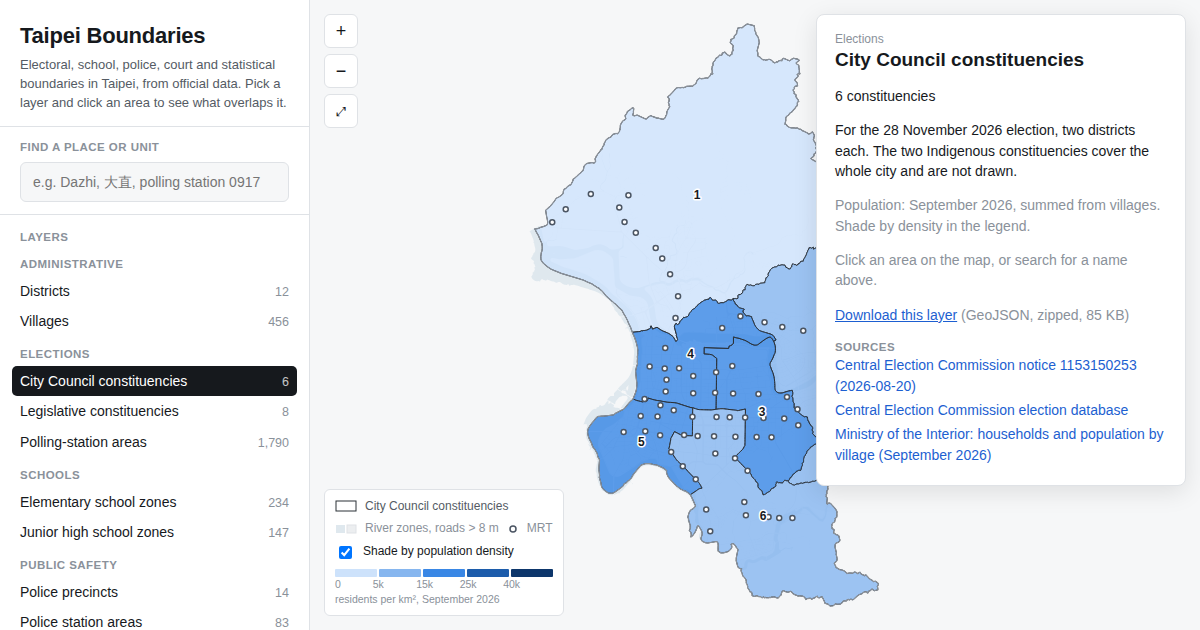
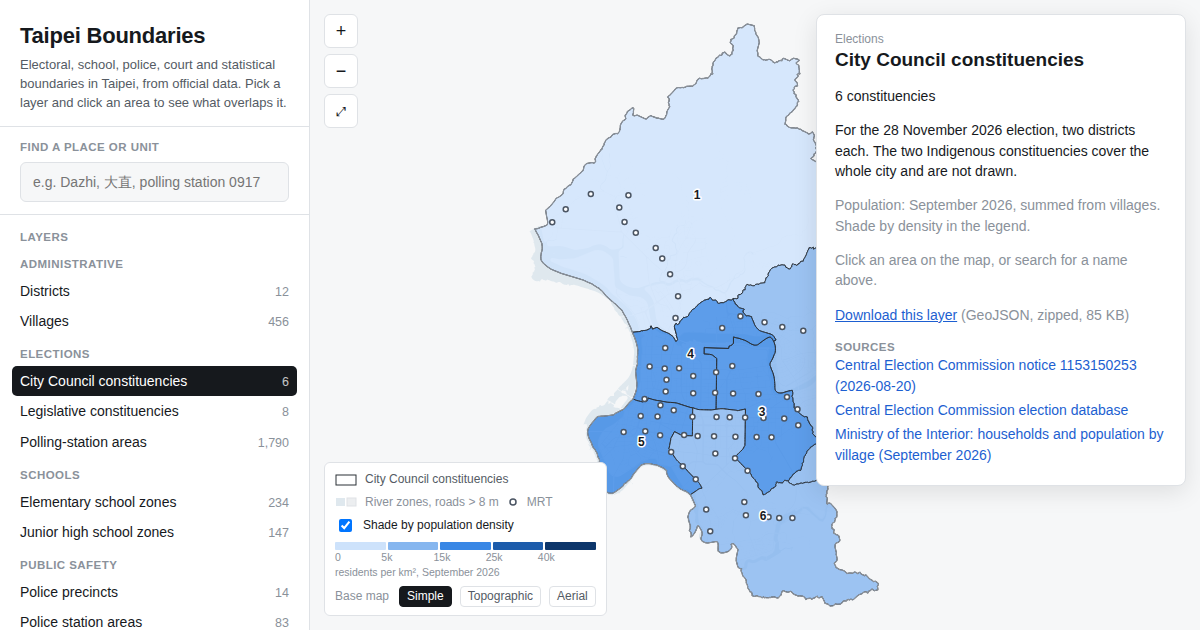
Taipei Boundaries: switchable base map
Simple (default), the Taipei City Urban Development Department's
topographic map and its 2025 aerial photo. Both are loaded live as
TWD97 tiles, so the map, lookups and links keep their coordinates.
Land outside the city is covered; tiles stay under the boundaries.

Claude-Session: https://claude.ai/code/session_01BnXE7ooyv3tu27QzrM6csQ

Changed region(s): [[0.2775, 0.754, 0.4933, 0.9651], [0.4933, 0.7238, 0.5242, 0.7841]]

diff --git a/index.html b/index.html
@@ -137,6 +137,33 @@ details.about p { margin: 10px 0 0; max-width: 62ch; }
 details.about a { color: var(--accent); }
 
 svg.map { display: block; width: 100%; height: 100%; background: var(--bg); touch-action: none; }
+/* base map tiles: an HTML layer under the SVG, so the browser can move and scale the images cheaply */
+svg.map { position: relative; }
+.tiles { position: absolute; left: 0; top: 0; width: 100%; overflow: hidden; pointer-events: none; z-index: 0; }  /* own stacking context: tiles stay under the map, buttons and legend */
+.tiles img { position: absolute; max-width: none; user-select: none; -webkit-user-drag: none; }
+.tiles.topo { filter: grayscale(1); opacity: .75; }
+@media (prefers-color-scheme: dark) { :root:not([data-theme="light"]) .tiles.topo { filter: grayscale(1) invert(1); opacity: .6; } }
+:root[data-theme="dark"] .tiles.topo { filter: grayscale(1) invert(1); opacity: .6; }
+.has-tiles svg.map { background: transparent; }
+.has-tiles .land { fill: none; }
+/* the city's tiles carry neighbouring areas too (the aerial photo fills them with black): cover everything outside the city */
+.outside { display: none; }
+.has-tiles .outside { display: inline; fill: var(--bg); fill-rule: evenodd; pointer-events: none; }
+.has-tiles .water, .has-tiles .roads { display: none; }
+.base-topo .unit { stroke: var(--ink); stroke-width: 1.1; }
+.base-topo .unit.sparse { stroke-width: 1.6; }
+.base-aerial .unit { stroke: #fff; stroke-width: 1.2; }
+.base-aerial .unit.sparse { stroke-width: 1.8; }
+.base-aerial .city-edge { stroke: #fff; }
+.base-aerial .ctx { stroke: rgba(255, 255, 255, .6); }
+.legend .base { flex-wrap: wrap; gap: 4px; }
+.legend .base-k { color: var(--ink-3); margin-right: 2px; }
+.legend .base button { border: 1px solid var(--rule); background: var(--panel); border-radius: 4px; padding: 1px 7px; color: var(--ink-2); cursor: pointer; }
+.legend .base button:hover { background: var(--hover); }
+.legend .base button:focus-visible { outline: 2px solid var(--accent); }
+.legend .base button[aria-pressed="true"] { background: var(--ink); border-color: var(--ink); color: var(--panel); }
+.legend .attrib { color: var(--ink-3); font-size: 11px; display: block; }
+.legend .attrib a { color: inherit; }
 .land { fill: var(--land); }
 .city-edge { fill: none; stroke: var(--ink-3); stroke-width: 1.2; vector-effect: non-scaling-stroke; }
 .ctx { fill: none; stroke: var(--line-faint); stroke-width: 1; vector-effect: non-scaling-stroke; pointer-events: none; }
@@ -241,7 +268,7 @@ img { max-width: 100%; }
           <li><a href="downloads/taipei_boundaries_geojson.zip" download>All layers as GeoJSON</a><span class="what">20 files, zipped, 4.2 MB</span></li>
           <li><a href="downloads/taipei_boundaries_gpkg.zip" download>All layers as a GeoPackage</a><span class="what">one file, zipped, 7.3 MB</span></li>
           <li><a href="downloads/taipei_boundaries_tables.zip" download>Village and lin crosswalks, overlap table</a><span class="what">3 CSV files, zipped, 484 KB</span></li>
-          <li><a href="downloads/README_zh.md" download>Methods, sources and known issues</a><span class="what">in Chinese, 21 KB</span></li>
+          <li><a href="downloads/README_zh.md" download>Methods, sources and known issues</a><span class="what">in Chinese, 22 KB</span></li>
         </ul>
       </details>
       <details class="about" id="about">
@@ -250,7 +277,7 @@ img { max-width: 100%; }
         <p>Shapes are simplified for the web. Overlap percentages use the full-resolution data.</p>
         <p>English names are official where one exists. Labels like “Polling station 0917” are descriptions.</p>
         <p>Population is household registration by village, September 2026, shown only for layers made of whole villages.</p>
-        <p>Base map: roads wider than 8 m (Public Works Department), river zones (urban-plan zoning map), MRT stations (Taipei Rapid Transit Corporation).</p>
+        <p>Base maps: Simple draws roads wider than 8 m (Public Works Department), river zones (urban-plan zoning map) and MRT stations (Taipei Rapid Transit Corporation). The topographic map and aerial photo (2025) are loaded live from the Taipei City Urban Development Department.</p>
         <p>Methods, sources and known issues: <a href="downloads/README_zh.md">README</a> (in Chinese).</p>
         <p>Inspired by <a href="https://boundaries.beta.nyc/" target="_blank" rel="noopener">NYC Boundaries</a> by BetaNYC.</p>
       </details>
@@ -259,6 +286,7 @@ img { max-width: 100%; }
   </aside>
   <main class="mapwrap" id="mapwrap">
     <div class="mapbox" id="mapbox">
+    <div class="tiles" id="tiles" aria-hidden="true"></div>
     <svg class="map" id="map" role="img" aria-label="Map of Taipei boundaries">
       <defs>
         <pattern id="hatch" width="6" height="6" patternUnits="userSpaceOnUse" patternTransform="rotate(45)">
@@ -268,6 +296,7 @@ img { max-width: 100%; }
       </defs>
       <g id="zoomg">
         <path class="land" id="land"></path>
+        <path class="outside" id="outside"></path>
         <path class="water" id="water"></path>
         <path class="roads" id="roads"></path>
         <g id="units"></g>
@@ -375,7 +404,7 @@ const hasCJK = s => /[㐀-鿿]/.test(s || "");
 let KEYS = {};  // per layer: the token that names each unit in the address
 let U, OV, FEAT = {}, BOX = {}, LAYERS, proj, path, zoom, svg, gZoom, transform = d3.zoomIdentity;
 let BASEMAP = {}, METRO = [], POP_MONTH = "", CITY_POP = 0;
-const state = { layer: "district", sel: null, point: null, shade: false };
+const state = { layer: "district", sel: null, point: null, shade: false, base: "simple" };
 const BREAKS = [5000, 15000, 25000, 40000];  // residents per km², fixed so layers can be compared
 const NOPOP = {
   lin: "No population: these zones are built from lin, and lin population is not published.",
@@ -536,15 +565,22 @@ function drawLegend() {
   let html = `<div class="row"><svg width="22" height="12"><rect x="1" y="1" width="20" height="10" style="fill:${LAYER[l].patch ? "var(--line)" : "none"};fill-opacity:.1;stroke:var(--line)"></rect></svg>${esc(LAYER[l].title)}</div>`;
   if (hasNull) html += `<div class="row"><svg width="22" height="12"><rect x="1" y="1" width="20" height="10" style="fill:url(#hatch);stroke:var(--null)"></rect></svg>Not determined from official data</div>`;
   if (state.sel) html += `<div class="row"><svg width="22" height="12"><rect x="1" y="1" width="20" height="10" style="fill:var(--accent-soft);stroke:var(--accent);stroke-width:2"></rect></svg>Selected</div>`;
-  html += `<div class="row" style="color:var(--ink-3)"><svg width="22" height="12"><rect x="1" y="2" width="9" height="8" style="fill:var(--water)"></rect><rect x="12" y="2" width="9" height="8" style="fill:var(--road);stroke:var(--rule)"></rect></svg>River zones, roads &gt; 8 m <svg width="12" height="12"><circle cx="6" cy="6" r="3" class="metro"></circle></svg>MRT</div>`;
+  const bm = BASEMAPS[state.base];
+  html += bm.url
+    ? `<div class="row" style="color:var(--ink-3)"><svg width="12" height="12"><circle cx="6" cy="6" r="3" class="metro"></circle></svg>MRT</div>`
+    : `<div class="row" style="color:var(--ink-3)"><svg width="22" height="12"><rect x="1" y="2" width="9" height="8" style="fill:var(--water)"></rect><rect x="12" y="2" width="9" height="8" style="fill:var(--road);stroke:var(--rule)"></rect></svg>River zones, roads &gt; 8 m <svg width="12" height="12"><circle cx="6" cy="6" r="3" class="metro"></circle></svg>MRT</div>`;
   if (hasPop(l)) {
     html += `<label class="row" for="shade"><input type="checkbox" id="shade"${state.shade ? " checked" : ""}> Shade by population density</label>`;
     if (state.shade) html += `<div><div class="scale">${[1, 2, 3, 4, 5].map(k => `<span style="background:var(--d${k})"></span>`).join("")}</div>
       <div class="ticks"><span>0</span>${BREAKS.map(b => `<span>${b / 1000}k</span>`).join("")}</div>
       <div class="ticks" style="display:block">residents per km², ${esc(POP_MONTH)}</div></div>`;
   }
+  html += `<div class="row base" role="group" aria-label="Base map"><span class="base-k">Base map</span>${Object.entries(BASEMAPS).map(([k, b]) =>
+    `<button type="button" data-base="${k}" aria-pressed="${state.base === k}">${b.short}</button>`).join("")}</div>`;
+  if (bm.url) html += `<span class="attrib">${bm.credit}: <a href="${UDD_DOC}" target="_blank" rel="noopener">Taipei City Urban Development Dept.</a></span>`;
   $("legend").innerHTML = html;
   const cb = $("shade"); if (cb) cb.onchange = () => setShade(cb.checked);
+  $("legend").querySelectorAll("[data-base]").forEach(b => { b.onclick = () => setBase(b.dataset.base); });
 }
 function drawBase() {
   d3.select("#water").attr("d", path(BASEMAP.water));
@@ -562,6 +598,97 @@ function drawSelection() {
   placeLabels();
   drawLegend();
   writeHash();
+}
+
+// ---------- base map tiles
+// Taipei City Urban Development Department WMTS in TWD97 (EPSG:3826), tile matrix set "default028mm":
+// top-left corner (-5372600, 10001100), 256-pixel tiles, metres per pixel = scale denominator x 0.00028.
+const UDD = "https://www.historygis.udd.gov.taipei/arcgis/rest/services/";
+const UDD_DOC = "https://www.historygis.udd.gov.taipei/urban/map/doc/%E8%87%BA%E5%8C%97%E5%B8%82%E6%94%BF%E5%BA%9C%E9%83%BD%E5%B8%82%E7%99%BC%E5%B1%95%E5%B1%80WMTS%E5%9C%96%E7%A3%9A%E6%9C%8D%E5%8B%99%E4%BB%8B%E6%8E%A5%E8%AA%AA%E6%98%8E.pdf";
+const WMTS = { x0: -5372600, y0: 10001100,
+  res: [1.181177957593862E7, 9449423.660750896, 4724711.830375448, 2362355.915187724, 944942.3660750897, 472471.18303754483,
+        236235.59151877242, 94494.23660750895, 47247.118303754476, 23623.559151877238, 9449.423660750896, 4724.711830375448,
+        2362.355915187724, 944.9423660750896, 472.4711830375448, 236.2355915187724].map(d => d * 0.00028) };
+const BASEMAPS = {
+  simple: { short: "Simple" },
+  topo: { short: "Topographic", credit: "Topographic map (2025)", cls: "topo", bbox: [293391, 2759039, 319864, 2791263],  // the service's own extent
+    url: (z, r, c) => `${UDD}TOPO_97/DGN_2025_97/MapServer/WMTS/tile/1.0.0/TOPO_97_DGN_2025_97/default/default028mm/${z}/${r}/${c}.png` },
+  aerial: { short: "Aerial", credit: "Aerial photo (2025)", cls: "aerial", bbox: [295200, 2760900, 317600, 2789700],
+    url: (z, r, c) => `${UDD}Aerial_97/Ortho_2025_97/MapServer/WMTS/tile/1.0.0/Aerial_97_Ortho_2025_97/default/default028mm/${z}/${r}/${c}` },
+};
+const TILES = new Map();  // "z/row/col" -> { img, z, r, c, done }
+let tileTimer, tileZ = -1;
+
+function tileView() {
+  const bm = BASEMAPS[state.base], r = $("map").getBoundingClientRect();
+  const mpp = 1 / (proj.scale() * transform.k);            // metres per CSS pixel right now
+  let z = WMTS.res.findIndex(res => res <= mpp * 1.25);   // coarsest level that is about as sharp as the screen
+  if (z < 0) z = WMTS.res.length - 1;
+  const [xa, ya] = proj.invert(transform.invert([0, 0])), [xb, yb] = proj.invert(transform.invert([r.width, r.height]));
+  const x0 = Math.max(Math.min(xa, xb), bm.bbox[0]), x1 = Math.min(Math.max(xa, xb), bm.bbox[2]);
+  const y0 = Math.max(Math.min(ya, yb), bm.bbox[1]), y1 = Math.min(Math.max(ya, yb), bm.bbox[3]);
+  const span = 256 * WMTS.res[z], need = [];
+  if (x0 < x1 && y0 < y1) {
+    const c0 = Math.floor((x0 - WMTS.x0) / span), c1 = Math.floor((x1 - WMTS.x0) / span);
+    const r0 = Math.floor((WMTS.y0 - y1) / span), r1 = Math.floor((WMTS.y0 - y0) / span);
+    for (let row = r0; row <= r1; row++) for (let col = c0; col <= c1; col++) need.push([z, row, col]);
+  }
+  return { z, need };
+}
+function placeTile(t) {
+  const span = 256 * WMTS.res[t.z], k = proj.scale() * transform.k;
+  const p = proj([WMTS.x0 + t.c * span, WMTS.y0 - t.r * span]);
+  const size = span * k;
+  // round outward by a fraction of a pixel so neighbouring tiles leave no hairline seams
+  t.img.style.left = (transform.applyX(p[0]) - 0.25) + "px";
+  t.img.style.top = (transform.applyY(p[1]) - 0.25) + "px";
+  t.img.style.width = t.img.style.height = (size + 0.5) + "px";
+}
+function updateTiles(load) {
+  const bm = BASEMAPS[state.base], box = $("tiles");
+  if (!bm.url) { TILES.forEach(t => t.img.remove()); TILES.clear(); return; }
+  if (load) {
+    const { z, need } = tileView();
+    tileZ = z;
+    const keys = new Set(need.map(n => n.join("/")));
+    for (const [z1, r, c] of need) {
+      const key = `${z1}/${r}/${c}`;
+      if (TILES.has(key)) continue;
+      const img = new Image(), t = { img, z: z1, r, c, done: false };
+      img.alt = "";
+      img.decoding = "async";
+      img.onload = () => { t.done = true; sweep(keys); };
+      img.onerror = () => { t.done = true; img.remove(); sweep(keys); };
+      img.src = bm.url(z1, r, c);
+      TILES.set(key, t);
+      box.appendChild(img);
+    }
+    sweep(keys);
+  }
+  TILES.forEach(t => { t.img.style.zIndex = t.z === tileZ ? 2 : 1; placeTile(t); });
+}
+// once every tile of the current view has arrived, drop the ones from other zoom levels or out of view
+function sweep(keys) {
+  for (const k of keys) { const t = TILES.get(k); if (t && !t.done) return; }
+  for (const [k, t] of TILES) if (!keys.has(k)) { t.img.remove(); TILES.delete(k); }
+}
+function scheduleTiles() {
+  updateTiles(false);  // move and scale what is already there on every frame
+  clearTimeout(tileTimer);
+  tileTimer = setTimeout(() => updateTiles(true), 150);  // ask for new tiles once the map stops moving
+}
+function setBase(k) {
+  if (!BASEMAPS[k] || k === state.base) return;
+  state.base = k;
+  const bm = BASEMAPS[k];
+  TILES.forEach(t => t.img.remove()); TILES.clear();
+  $("tiles").className = "tiles" + (bm.cls ? " " + bm.cls : "");
+  const mb = $("mapbox");
+  mb.classList.toggle("has-tiles", !!bm.url);
+  mb.classList.toggle("base-topo", k === "topo");
+  mb.classList.toggle("base-aerial", k === "aerial");
+  updateTiles(true);
+  drawLegend();
 }
 
 // ---------- tooltip
@@ -784,6 +911,8 @@ async function start() {
     path = d3.geoPath(proj);
     d3.select("#land").attr("d", path(cityF));
     d3.select("#edge").attr("d", path(cityF));
+    d3.select("#outside").attr("d", "M-100000,-100000H100000V100000H-100000Z" + path(cityF));  // a frame with the city cut out
+    $("tiles").style.height = r.height + "px";
     drawBase();
   };
   fit();
@@ -792,6 +921,7 @@ async function start() {
     gZoom.attr("transform", transform);
     placeLabels();
     hideTip();
+    if (state.base !== "simple") scheduleTiles();
   });
   svg.call(zoom).on("dblclick.zoom", null);
   $("zin").onclick = () => svg.transition().duration(250).call(zoom.scaleBy, 1.6);
@@ -806,7 +936,7 @@ async function start() {
   $("loading").hidden = true;
 
   let rt;
-  new ResizeObserver(() => { clearTimeout(rt); rt = setTimeout(() => { fit(); drawLayer(); drawSelection(); }, 120); }).observe($("map"));
+  new ResizeObserver(() => { clearTimeout(rt); rt = setTimeout(() => { fit(); drawLayer(); drawSelection(); updateTiles(true); }, 120); }).observe($("map"));
 
   $("q").addEventListener("input", runSearch);
   $("q").addEventListener("keydown", e => { if (e.key === "Escape") { $("q").value = ""; runSearch(); } if (e.key === "Enter") { const b = $("results").querySelector("button"); if (b) b.click(); } });

diff --git a/downloads/README_zh.md b/downloads/README_zh.md
@@ -170,6 +170,7 @@
 - 「點一下看各層」用的是簡化後的線；隨機 400 個點、19 層和原始資料比對，全部一致。
 - 人口：內政部戶政司 115 年 9 月各里人口，加總與民政局各區、全市人口（2,418,872 人）完全一致。只顯示由完整里組成的圖層（行政區、里、選區、警察、消防、法院、清潔隊、健康中心、郵遞區號），這些是精確加總；投開票所和學區由鄰組成，鄰的人口沒有開放資料；次分區、統計區、都市計畫分區不沿里界。這些圖層不顯示人口，也不用面積比例推估。密度用總面積（含山坡地、河道與河濱）計算。
 - 底圖：工務局「寬度超過8公尺道路」資料集（103–105 年建置，資料檔日期 2025-09；7,667 段中有 263 段登記寬度不到 8 公尺，照原資料全部畫出）、都市計畫使用分區中的河川區、行水區、河道用地，以及臺北捷運出入口座標平均得出的車站位置（74 站在臺北市內）。站名只有中文。
+- 底圖可以切換：Simple（上一點的三種資料，預設）、臺北市政府都市發展局的地形圖（114 年版）和航測影像（114 年）。後兩者是都發局的 TWD97 圖磚，瀏覽時直接從都發局伺服器載入畫面範圍內的圖磚，網站不另存。都發局規定不得複製轉存，也不得短時間大量取圖。
 - 英文名稱只用官方有的：行政區、里（中華郵政村里英譯檔，檔案日期 2013 年；其中查不到 12 個里的現行寫法，保留中文，例如舊莊里在檔中寫作舊庄里）、警察分局（市警局英文網站）、法院（地院英文網站；內湖簡易庭沒有官方英文）。其他專有名稱保留中文。有編號的單位和服務轄區用描述性的英文標籤，例如 Council constituency 1、Polling station 0917、Neihu District health center，這些是我加的說明，不是官方英文名。
 
 ## 還沒做的和原因
@@ -220,3 +221,4 @@
 - 臺北市各行政區人口數及戶數（民政局，用來核對）：https://data.taipei/dataset/detail?id=6a1dbb4e-e99c-4e67-ab09-f6d83852dc99
 - 臺北市寬度超過 8 公尺道路（工務局，底圖）：https://data.taipei/dataset/detail?id=ee2e4015-8844-48fb-aa57-31209909b0fc
 - 臺北捷運車站出入口座標（臺北捷運公司，底圖）：https://data.taipei/dataset/detail?id=cfa4778c-62c1-497b-b704-756231de348b
+- 臺北市政府都市發展局 WMTS 圖磚服務（地形圖、航測影像底圖）：https://www.historygis.udd.gov.taipei/urban/map/doc/臺北市政府都市發展局WMTS圖磚服務介接說明.pdf
